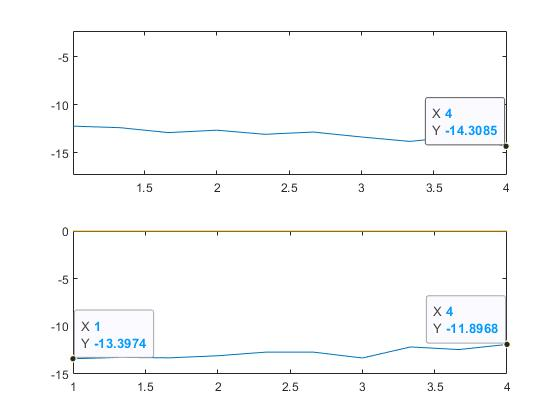
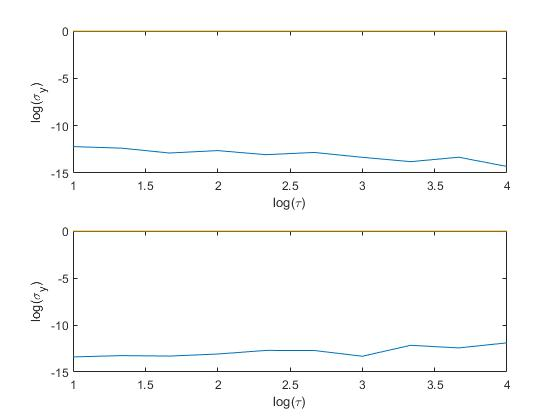
Started Module 9

diff --git a/Space Mission Design and Navigation/Module 9/dynFxn_2Body_ECI_Template.m b/Space Mission Design and Navigation/Module 9/dynFxn_2Body_ECI_Template.m
@@ -1,0 +1,216 @@
+%%%%%%%%%%%%%%%%%%%%%%%%%%%%%%%%%%%%%%%%%%%%%%%%%%%%%%%%%%%%%%%%%%%%%%%%%%%
+% Author: Ryan Mitch
+% Date Modified: 10-26-2020
+% Copyright (c) 2020 Ryan Mitch/JHUAPL
+%
+%%%%%%%%%%%%%%%%%%%%%%%%%%%%%%%%%%%%%%%%%%%%%%%%%%%%%%%%%%%%%%%%%%%%%%%%%%%
+% SUMMARY:
+%%%%%%%%%%%%%%%%%%%%%%%%%%%%%%%%%%%%%%%%%%%%%%%%%%%%%%%%%%%%%%%%%%%%%%%%%%%
+% This function executes the dynamics defined in a continuous time domain
+% and converts them into the discrete time approximations through a
+% difference equation.  The general form of which is:
+%
+% Continuous time:
+% dxdt = (A*x) + (B_u*u) + (B_v*v)
+%
+% Difference Equation:
+% x_k+1 = (Phi*x_k) + (Gamma_u*u_k) + (Gamma_v*v_k)
+%
+% This conversion is accomplished with the dynamics subfunction and ode
+% solver.
+%
+%%%%%%%%%%%%%%%%%%%%%%%%%%%%%%%%%%%%%%%%%%%%%%%%%%%%%%%%%%%%%%%%%%%%%%%%%%%
+% INPUTS:
+%%%%%%%%%%%%%%%%%%%%%%%%%%%%%%%%%%%%%%%%%%%%%%%%%%%%%%%%%%%%%%%%%%%%%%%%%%%
+%
+% 1) x - the (nx x 1) state vector at time k
+% 2) u - the (nu x 1) disturbance input vector at time k.  It is assumed 
+%       to be held constant throughout the integration interval.
+% 3) v - the (nv x 1) control input vector at time k.  It is 
+%       assumed to be held constant throughout the integratio interval.
+% 4) tspan- the time span over which to evaluate the dynamics.  This
+%       can be a two element vector [t_start, t_end] or a column vector.
+%       The units are assumed to be in seconds.
+% 5) param - this is a parameter structure that contains all of the other
+%       inputs that might be needed by various dynamics models. 
+% 
+%%%%%%%%%%%%%%%%%%%%%%%%%%%%%%%%%%%%%%%%%%%%%%%%%%%%%%%%%%%%%%%%%%%%%%%%%%%
+% OUTPUTS:
+%%%%%%%%%%%%%%%%%%%%%%%%%%%%%%%%%%%%%%%%%%%%%%%%%%%%%%%%%%%%%%%%%%%%%%%%%%%
+%   1) t - the final time that the state is defined at, in seconds.
+%   2) x - the (nx x 1) state vector defined at time tspan(end). 
+%   3) Phi - the (nx x nx) state transition matrix.  If it were a linear 
+%           system, then the STM would take a state from time t_k and 
+%           propagates it to time t_kp1.  It is just an approximation.
+%   4) Gamma_u - the (nx x nu) process noise influence matrix that takes a
+%           disturbance input vector and defines its influence from 
+%           t_k->t_kp1.
+%   5) Gamma_v - the (nx x nv) control influence matrix that takes a
+%           control input vector and defines its influence from t_k->t_kp1.
+%
+%%%%%%%%%%%%%%%%%%%%%%%%%%%%%%%%%%%%%%%%%%%%%%%%%%%%%%%%%%%%%%%%%%%%%%%%%%%
+% ASSUMPTIONS:
+%%%%%%%%%%%%%%%%%%%%%%%%%%%%%%%%%%%%%%%%%%%%%%%%%%%%%%%%%%%%%%%%%%%%%%%%%%%
+% 1) The standard assumptions for ode solvers. 
+% 
+%%%%%%%%%%%%%%%%%%%%%%%%%%%%%%%%%%%%%%%%%%%%%%%%%%%%%%%%%%%%%%%%%%%%%%%%%%%
+% NOTES:
+%%%%%%%%%%%%%%%%%%%%%%%%%%%%%%%%%%%%%%%%%%%%%%%%%%%%%%%%%%%%%%%%%%%%%%%%%%%
+% 
+%%%%%%%%%%%%%%%%%%%%%%%%%%%%%%%%%%%%%%%%%%%%%%%%%%%%%%%%%%%%%%%%%%%%%%%%%%%
+% 
+%%%%%%%%%%%%%%%%%%%%%%%%%%%%%%%%%%%%%%%%%%%%%%%%%%%%%%%%%%%%%%%%%%%%%%%%%%%
+function [t,x,Phi,Gamma_u,Gamma_v] = dynFxn_2Body_ECI_Template(x0,u,...
+    v,tspan,param)
+
+% ODE solver parameters:
+odeSolver = @ode113;
+dynarg    = param;
+odeOpts   = odeset('abstol',1e-13,'reltol',1e-13,'MaxStep',1000); % Recommended.
+%
+%% Form Initial State/STM
+nx   = length(x0);
+nx2  = nx^2;
+nu   = length(u);
+nv   = length(v);
+nvnx = (nx*nv);
+nunx = (nx*nu);
+z0   = zeros((nx+nx2+nunx+nvnx),1);
+% Populate State:
+z0(1:nx,:) = x0;
+% Populate STM:
+initial_dxdotdx   = eye(nx);
+z0(nx+1:nx+nx2,:) = reshape(initial_dxdotdx,nx2,1);
+% Populate CIM:
+initial_dxdotdu   = zeros(nx,nu);
+z0((nx+nx2)+1:(nx+nx2+nunx),:) = reshape(initial_dxdotdu,nunx,1);
+% Populate PNIM:
+initial_dxdotdv   = zeros(nx,nv);
+z0((nx+nx2+nunx)+1:(nx+nx2+nunx)+nvnx,:) = reshape(initial_dxdotdv,nvnx,1);
+%
+%% Evaluate ODE:
+odefunCall = @(t,x) odefun(t,x,@dynFxn_ContinuousTime_2Body_ECI,nx,nu,u,nv,v,dynarg);
+[t,z]      = feval(odeSolver,odefunCall,tspan,z0,odeOpts);
+%
+%% Expand/Unflatten Solution
+nt      = length(t);
+x       = z(:,1:nx)';
+Phi     = reshape(z(:,nx+1:nx+nx2)',nx,nx,nt);
+Gamma_u = reshape(z(:,(nx+nx2+1):(nx+nx2+nunx))',nx,nu,nt);
+Gamma_v = reshape(z(:,(nx+nx2+nunx+1):end)',nx,nv,nt);
+%
+% Solver may return values at multiple times, but we only want the last
+% one:
+x       = x(:,end);
+Phi     = Phi(:,:,end);
+Gamma_u = Gamma_u(:,:,end);
+Gamma_v = Gamma_v(:,:,end);
+end
+
+function zdot = odefun(t,z,dynfun,nx,nu,u,nv,v,dynarg)
+%% Sizing:
+nx2  = nx^2;
+nunx = nu*nx;
+nvnx = nv*nx;
+%% Parse  inputs and unflatten (vector->matrix):
+% Grab state:
+x = z(1:nx,:);
+% Grab STM:
+Phi     = reshape(z(nx+(1:nx2)),nx,nx);
+% Expand (unflatten) Process Noise Influence Matrix:
+Gamma_u = reshape(z((nx+nx2)+1:(nx+nx2+nunx)),nx,nu);
+% Expand (unflatten) Control Influence Matrix:
+Gamma_v = reshape(z((nx+nx2+nunx)+1:(nx+nx2+nunx+nvnx)),nx,nv);
+%
+%% Call Dynamics:
+[xdot,A,Bu,Bv] = feval(dynfun,t,x,u,v,dynarg);
+%
+%% Flatten (matrix->vector):
+% State:
+zdot(1:nx,1)                 = xdot;
+% Phi:
+Phidot                       = ???
+zdot(nx+(1:nx2),1)           = Phidot(:);
+% Control and Process Noise:
+Gamma_uDot                   = ???
+zdot(nx+nx2+(1:nunx),1)      = Gamma_uDot(:);
+Gamma_vDot                   = ???
+zdot(nx+nx2+nunx+(1:nvnx),1) = Gamma_vDot(:);
+end
+
+
+
+%% Setup function to be called by the ode solver:
+function [dx,A,Bu,Bv] = dynFxn_ContinuousTime_2Body_ECI(t,x,u,v,param)
+
+% Earth mu:
+muE_m = 3.986004415e14;
+%
+R = norm(x(1:3));
+% Sanity check rho_km:
+if (abs(R)<6371e3)
+    error('Object collided with the Earth.')
+end
+%
+% Distances in x,y,z:
+RX = x(1,:);
+RY = x(2,:);
+RZ = x(3,:);
+%
+% Process Noise:
+uX = u(1,:);
+uY = u(2,:);
+uZ = u(3,:);
+%
+% Control:
+vX = v(1,:);
+vY = v(2,:);
+vZ = v(3,:);
+%
+% Compute Gravitational Acceleration
+%
+% Define Constants
+C0 = -muE_m./R.^3;
+% Define Additional Constants
+C2 = 3*muE_m./R.^5;
+%
+xdd = C0.*RX + vX + uX;
+ydd = C0.*RY + vY + uY;
+zdd = C0.*RZ + vZ + uZ;
+dd  = [xdd;ydd;zdd];
+%
+% Form State Derivative 
+% dx = zeros(size(x));
+nStates   = size(x,1);
+dx        = zeros(nStates,1);
+dx(1:3,1) = x(4:6); %d/dt x = xdot 
+dx(4:6)   = dd(:); % d/dt xdot = acceleration
+%
+%% Construct Jacobian (if called)
+% Partial Derivative Matrix w.r.t. state:
+A(1:3,4:6) = eye(3); %dx1dx1
+%
+A(4,1)     = C0 + C2.*RX.^2; %dx2dx
+A(4,2)     =      C2.*RX.*RY;%dx2dy
+A(4,3)     =      C2.*RX.*RZ;%dx2dz
+%
+A(5,1)     =      C2.*RY.*RX;%dy2dx
+A(5,2)     = C0 + C2.*RY.^2; %dy2dy
+A(5,3)     =      C2.*RY.*RZ;%dy2dz
+%
+A(6,1)     =      C2.*RZ.*RX;%dz2dx
+A(6,2)     =      C2.*RZ.*RY;%dz2dy
+A(6,3)     = C0 + C2.*RZ.^2; %dz2dz
+%
+% Partial Derivative Matrix w.r.t. control noise:
+Bu = zeros(nStates,3);
+Bu(4,1) = 1; %dx2dux
+Bu(5,2) = 1; %dy2duy
+Bu(6,3) = 1; %dz2duz
+%
+% Partial Derivative Matrix w.r.t. process noise:
+Bv = zeros(nStates,3);
+Bv(4,1) = 1; %dx2dvx
+Bv(5,2) = 1; %dy2dvy
+Bv(6,3) = 1; %dz2dvz
+end

diff --git a/Space Mission Design and Navigation/Module 8/HW8_Prob_1.m b/Space Mission Design and Navigation/Module 8/HW8_Prob_1.m
@@ -23,8 +23,12 @@ tauVec = logspace(1,4,10);
 % these data files represent
 subplot(211)
 plot(log10(tauVec), sigmaVec_1);
+xlabel("log(\tau)");
+ylabel("log(\sigma_{y})");
 subplot(212)
 plot(log10(tauVec), sigmaVec_2);
+xlabel("log(\tau)");
+ylabel("log(\sigma_{y})");
 %% Functions
 % Allan Variance Function
 function [variance, sigma_y] = AllanVariance(clockVec, timeVec,dt, tauVec)
@@ -46,3 +50,7 @@ function [variance, sigma_y] = AllanVariance(clockVec, timeVec,dt, tauVec)
     end
 end
 
+%% Discussion
+% I believe the first plot is close to passive H Maser while the second one
+% is quartz? I think I really messed up this script so I am probably off
+% base. 
